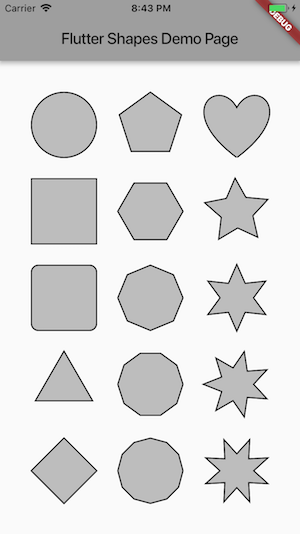
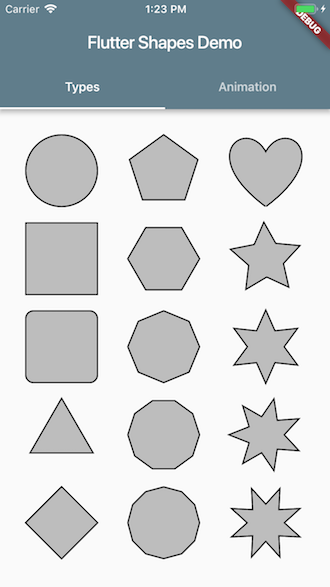
Add animation example

diff --git a/example/lib/animation.dart b/example/lib/animation.dart
@@ -1,0 +1,116 @@
+import 'dart:math';
+import 'package:flutter/material.dart';
+import 'package:flutter_shapes/flutter_shapes.dart';
+
+class AnimationPage extends StatefulWidget {
+  @override
+  _AnimationPageState createState() => _AnimationPageState();
+}
+
+class _AnimationPageState extends State<AnimationPage>
+    with TickerProviderStateMixin {
+  AnimationController _sizeAnimationController;
+  AnimationController _sparkleAnimationController;
+  CurvedAnimation _sparkleAnimation;
+  Random _random;
+  double _randomValue = 0;
+
+  @override
+  void initState() {
+    super.initState();
+
+    _sizeAnimationController =
+        AnimationController(vsync: this, duration: Duration(milliseconds: 150));
+    _sizeAnimationController.addStatusListener((AnimationStatus status) {
+      if (status == AnimationStatus.completed) {
+        _sizeAnimationController.reverse();
+      }
+    });
+    _sizeAnimationController.addListener(() {
+      setState(() {});
+    });
+
+    _sparkleAnimationController =
+        AnimationController(vsync: this, duration: Duration(milliseconds: 400));
+    _sparkleAnimation = CurvedAnimation(
+        parent: _sparkleAnimationController, curve: Curves.easeIn);
+    _sparkleAnimation.addListener(() {
+      setState(() {});
+    });
+
+    _random = Random();
+  }
+
+  @override
+  Widget build(BuildContext context) {
+    return GestureDetector(
+        behavior: HitTestBehavior.opaque,
+        child: Container(
+          padding: const EdgeInsets.all(50),
+          child: CustomPaint(
+              painter: _MyPainter(
+                  sizeRatio: _sizeAnimationController.value,
+                  sparkleRatio: _sparkleAnimation.value,
+                  sparkleBaseAngle: _randomValue * 50)),
+        ),
+        onTap: () {
+          _sizeAnimationController.forward(from: 0);
+          _sparkleAnimationController.forward(from: 0);
+          _randomValue = _random.nextDouble();
+        });
+  }
+}
+
+Random random = Random();
+
+class _MyPainter extends CustomPainter {
+  _MyPainter({this.sizeRatio, this.sparkleRatio, this.sparkleBaseAngle})
+      : super();
+
+  double sizeRatio;
+  double sparkleRatio;
+  double sparkleBaseAngle;
+
+  @override
+  bool shouldRepaint(_MyPainter oldDelegate) {
+    return oldDelegate.sizeRatio != sizeRatio ||
+        oldDelegate.sparkleRatio != sparkleRatio ||
+        oldDelegate.sparkleBaseAngle != sparkleBaseAngle;
+  }
+
+  @override
+  void paint(Canvas canvas, Size size) {
+    final Offset center = Offset(size.width * 0.5, size.height * 0.5);
+
+    final Paint heartPaint = Paint()
+      ..color = Colors.pink
+      ..style = PaintingStyle.fill;
+
+    Shapes(canvas: canvas)
+      ..paint = heartPaint
+      ..radius = 50 + sizeRatio * 20
+      ..center = center
+      ..drawType(ShapeTypes.Heart);
+
+    if (sizeRatio == 0) {
+      return;
+    }
+
+    final double sparkleRadius = 40 + 50 * sparkleRatio;
+    final Paint starPaint = Paint()
+      ..color = Colors.yellow[700].withOpacity(1 - sparkleRatio)
+      ..style = PaintingStyle.fill;
+
+    const int sparkleNum = 5;
+    for (int i = 0; i < sparkleNum; i++) {
+      final double angle = (sparkleBaseAngle + 360 / sparkleNum * i) * pi / 180;
+
+      Shapes(canvas: canvas)
+        ..paint = starPaint
+        ..radius = 20
+        ..center = center.translate(
+            sparkleRadius * cos(angle), sparkleRadius * sin(angle))
+        ..drawType(ShapeTypes.Star5);
+    }
+  }
+}

diff --git a/example/lib/main.dart b/example/lib/main.dart
@@ -1,5 +1,7 @@
 import 'package:flutter/material.dart';
-import 'package:flutter_shapes/flutter_shapes.dart';
+
+import 'animation.dart';
+import 'types.dart';
 
 void main() => runApp(MyApp());
 
@@ -9,65 +11,28 @@ class MyApp extends StatelessWidget {
     return MaterialApp(
       title: 'Flutter Shapes Demo',
       theme: ThemeData(
-        primarySwatch: Colors.grey,
+        primarySwatch: Colors.blueGrey,
       ),
-      home: MyHomePage(title: 'Flutter Shapes Demo Page'),
-    );
-  }
-}
-
-class MyHomePage extends StatefulWidget {
-  MyHomePage({Key key, this.title}) : super(key: key);
-
-  final String title;
-
-  @override
-  _MyHomePageState createState() => _MyHomePageState();
-}
-
-class _MyHomePageState extends State<MyHomePage> {
-  @override
-  Widget build(BuildContext context) {
-    return Scaffold(
-      appBar: AppBar(
-        title: Text(widget.title),
-      ),
-      body: Container(
-        padding: EdgeInsets.all(60),
-        child: CustomPaint(painter: MyPainter()),
+      home: DefaultTabController(
+        length: 3,
+        child: Scaffold(
+          appBar: AppBar(
+            bottom: TabBar(
+              tabs: const <Widget>[
+                Tab(text: 'Types'),
+                Tab(text: 'Animation'),
+              ],
+            ),
+            title: const Text('Flutter Shapes Demo'),
+          ),
+          body: TabBarView(
+            children: <Widget>[
+              TypesPage(),
+              AnimationPage(),
+            ],
+          ),
+        ),
       ),
     );
-  }
-}
-
-class MyPainter extends CustomPainter {
-  @override
-  bool shouldRepaint(CustomPainter oldDelegate) {
-    return true;
-  }
-
-  @override
-  void paint(Canvas canvas, Size size) {
-    Paint stroke = Paint()
-      ..color = Colors.black
-      ..style = PaintingStyle.stroke
-      ..strokeWidth = 3;
-    Paint fill = Paint()
-      ..color = Colors.grey[400]
-      ..style = PaintingStyle.fill;
-    double radius = 40;
-    Shapes shapes = Shapes(canvas: canvas);
-    Shapes.types.forEach((type) {
-      int index = Shapes.types.indexOf(type);
-      double x = radius * 0.5 + radius * 2.7 * (index / 5).floor().toDouble();
-      double y = radius * 0.5 + radius * 2.7 * (index % 5).toDouble();
-      [stroke, fill].forEach((paint) {
-        (shapes
-              ..paint = paint
-              ..radius = radius
-              ..center = Offset(x, y))
-            .draw(type);
-      });
-    });
   }
 }

diff --git a/example/lib/types.dart b/example/lib/types.dart
@@ -1,0 +1,50 @@
+import 'package:flutter/material.dart';
+import 'package:flutter_shapes/flutter_shapes.dart';
+
+class TypesPage extends StatefulWidget {
+  @override
+  _TypesPageState createState() => _TypesPageState();
+}
+
+class _TypesPageState extends State<TypesPage> {
+  @override
+  Widget build(BuildContext context) {
+    return Container(
+      padding: const EdgeInsets.all(50),
+      child: CustomPaint(painter: _MyPainter()),
+    );
+  }
+}
+
+class _MyPainter extends CustomPainter {
+  @override
+  bool shouldRepaint(CustomPainter oldDelegate) {
+    return false;
+  }
+
+  @override
+  void paint(Canvas canvas, Size size) {
+    final Paint stroke = Paint()
+      ..color = Colors.black
+      ..style = PaintingStyle.stroke
+      ..strokeWidth = 3;
+    final Paint fill = Paint()
+      ..color = Colors.grey[400]
+      ..style = PaintingStyle.fill;
+    const double radius = 40;
+    final Shapes shapes = Shapes(canvas: canvas);
+    for (String type in Shapes.types) {
+      final int index = Shapes.types.indexOf(type);
+      final double x =
+          radius * 0.5 + radius * 2.9 * (index / 5).floor().toDouble();
+      final double y = radius * 0.5 + radius * 2.5 * (index % 5).toDouble();
+      for (Paint paint in <Paint>[stroke, fill]) {
+        (shapes
+              ..paint = paint
+              ..radius = radius
+              ..center = Offset(x, y))
+            .draw(type);
+      }
+    }
+  }
+}

diff --git a/README.md b/README.md
@@ -1,5 +1,9 @@
 # FlutterShapes
 
+![](https://github.com/tnantoka/flutter_shapes/raw/master/heart.gif)
+
+## Shape types
+
 ![](https://github.com/tnantoka/flutter_shapes/raw/master/screenshot.png)
 
 ## Adding FlutterShapes to your project
@@ -28,3 +32,9 @@ class MyPainter extends CustomPainter {
   }
 }
 ```
+## Acknowledgements
+
+https://proandroiddev.com/flutter-animation-creating-mediums-clap-animation-in-flutter-3168f047421e
+
+A great article about animation with Flutter .
+It helped me to write example codes.
